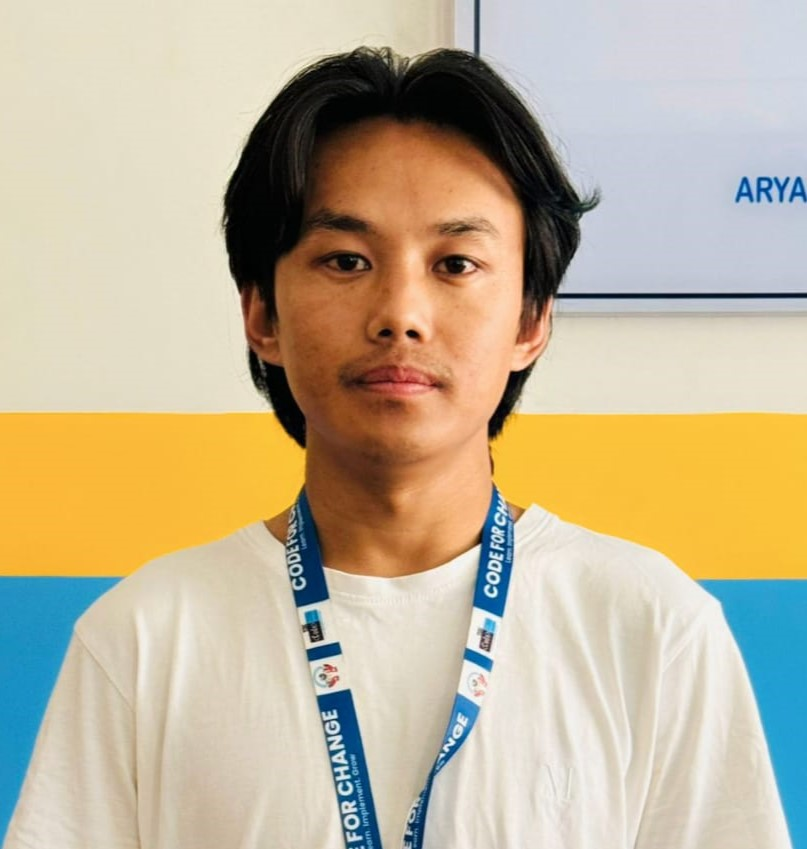
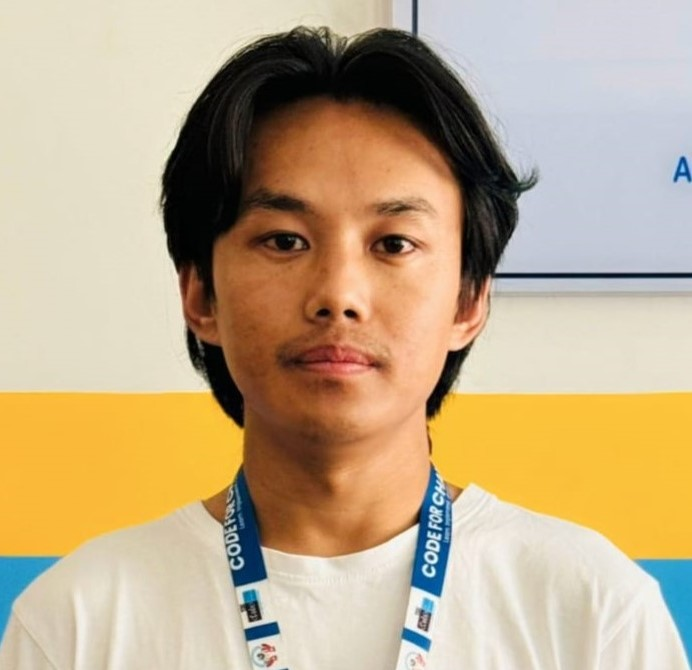
update on profile photo, skills

diff --git a/Portfolio1/index.html b/Portfolio1/index.html
@@ -66,11 +66,11 @@
     </div>
   </header><!-- End Header -->
 
-  <!-- ======= Hero Section ======= -->
+<!-- ======= Hero Section ======= -->
 <section id="hero" class="d-flex flex-column justify-content-center align-items-center">
   <div class="hero-container" data-aos="fade-in">
     <h1 style="text-shadow: 0 0 10px #fff, 0 0 20px #fff, 0 0 30px #e60073, 0 0 40px #e60073, 0 0 50px #e60073, 0 0 60px #e60073, 0 0 70px #e60073;">Ameer Sampang Rai</h1>
-    <p>I'm <span class="typed" data-typed-items="AI/ML & Data Science Enthusiast, Former .Net Developer, CR @CFC-KTM 23.24, Tech Enthusiast"></span></p>
+    <p>I'm <span class="typed" data-typed-items="AI/ML & Data Science Enthusiast, Former .Net Developer, CR @CFC-KTM 23.24"></span></p>
   </div>
 </section><!-- End Hero -->
 
@@ -89,7 +89,7 @@
         <div class="row">
           <div class="col-lg-4" data-aos="fade-right">
             <!-- <img id="tilt-img" data-tilt="" src="assets/img/profile.jpeg" class="img-fluid" alt=""> -->
-            <img src="assets/img/me5.jpeg" class="img-fluid" alt="">
+            <img src="assets/img/me2.jpeg" class="img-fluid" alt="">
           </div>
           <div class="col-lg-8 pt-4 pt-lg-0 content" data-aos="fade-left">
             <h3>AI/ML & Data Science Enthusiast || Former .Net Developer || Software Developer</h3>
@@ -174,7 +174,7 @@
             </div>
 
             <div class="progress">
-              <span class="skill">React/PHP/MySQL <i class="val">0%</i></span>
+              <span class="skill">React/Tailwind/PHP/MySQL <i class="val">80%</i></span>
               <div class="progress-bar-wrap">
                 <div class="progress-bar" role="progressbar" aria-valuenow="80" aria-valuemin="0" aria-valuemax="100"></div>
               </div>
@@ -182,6 +182,13 @@
 
             <div class="progress">
               <span class="skill">WordPress Theme & Plugin Development/CMS/Cpanel <i class="val">90%</i></span>
+              <div class="progress-bar-wrap">
+                <div class="progress-bar" role="progressbar" aria-valuenow="90" aria-valuemin="0" aria-valuemax="100"></div>
+              </div>
+            </div>
+            
+            <div class="progress">
+              <span class="skill">Basic Docker/Kubernetes, AWS and Azure <i class="val">60%</i></span>
               <div class="progress-bar-wrap">
                 <div class="progress-bar" role="progressbar" aria-valuenow="90" aria-valuemin="0" aria-valuemax="100"></div>
               </div>

diff --git a/Portfolio2/index.html b/Portfolio2/index.html
@@ -164,7 +164,13 @@
           </div>
 
           <div class="progress">
-            <span class="skill">React/PHP/MySQL <i class="val">75%</i></span>
+            <span class="skill">React/PHP/MySQL/Tailwind <i class="val">75%</i></span>
+            <div class="progress-bar-wrap">
+              <div class="progress-bar" role="progressbar" aria-valuenow="75" aria-valuemin="0" aria-valuemax="100"></div>
+            </div>
+          </div>
+          <div class="progress">
+            <span class="skill">Basic Docker/Kubernetes, AWS and Azure <i class="val">75%</i></span>
             <div class="progress-bar-wrap">
               <div class="progress-bar" role="progressbar" aria-valuenow="75" aria-valuemin="0" aria-valuemax="100"></div>
             </div>
@@ -263,9 +269,9 @@
 
           <h3 class="resume-title">Education</h3>
           <div class="resume-item">
-            <h4>Bachelor in Information Technology</h4>
+            <h4>Bachelor in Information Technology (BIT)</h4>
             <h5>2019 - 2024</h5>
-            <p><em>Aryan School of Engineering and Management | Mid-Baneshwor, Kathmandu, Nepal</em></p>
+            <p><em>Aryan School of Engineering and Management | Mid-Baneshwor, Lalitpur, Nepal</em></p>
             <p>During my pursuit of a Bachelor's degree in Information Technology, I have gained extensive knowledge in various IT domains, including programming, databases, and networking. I continue to excel in my studies, eager to apply my skills to real-world challenges.</p>
           </div>
           <div class="resume-item">
